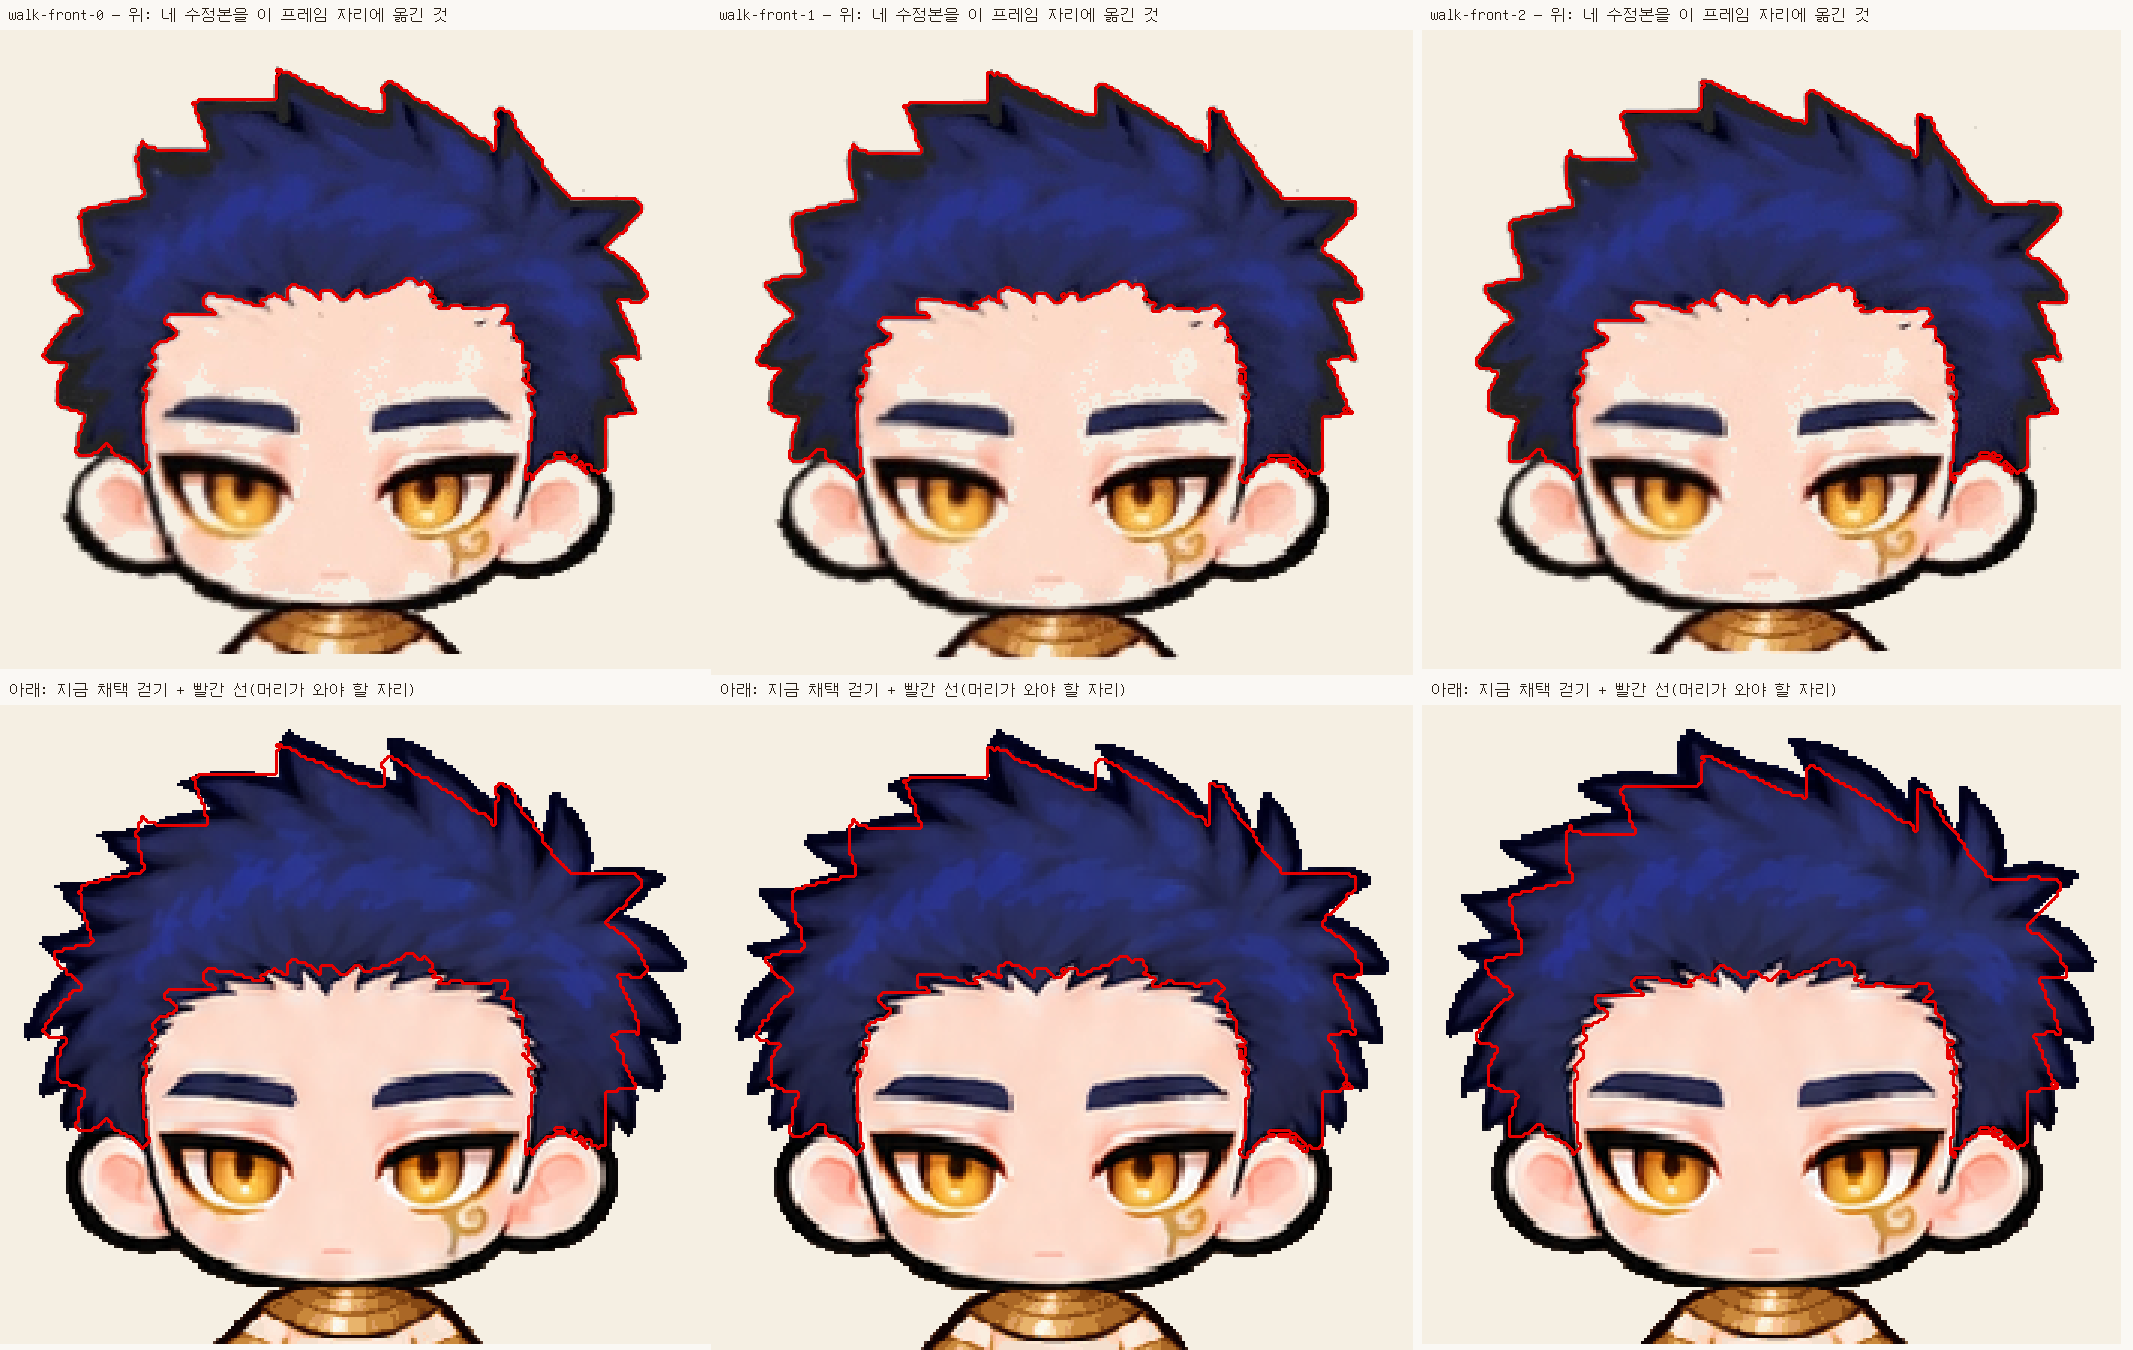
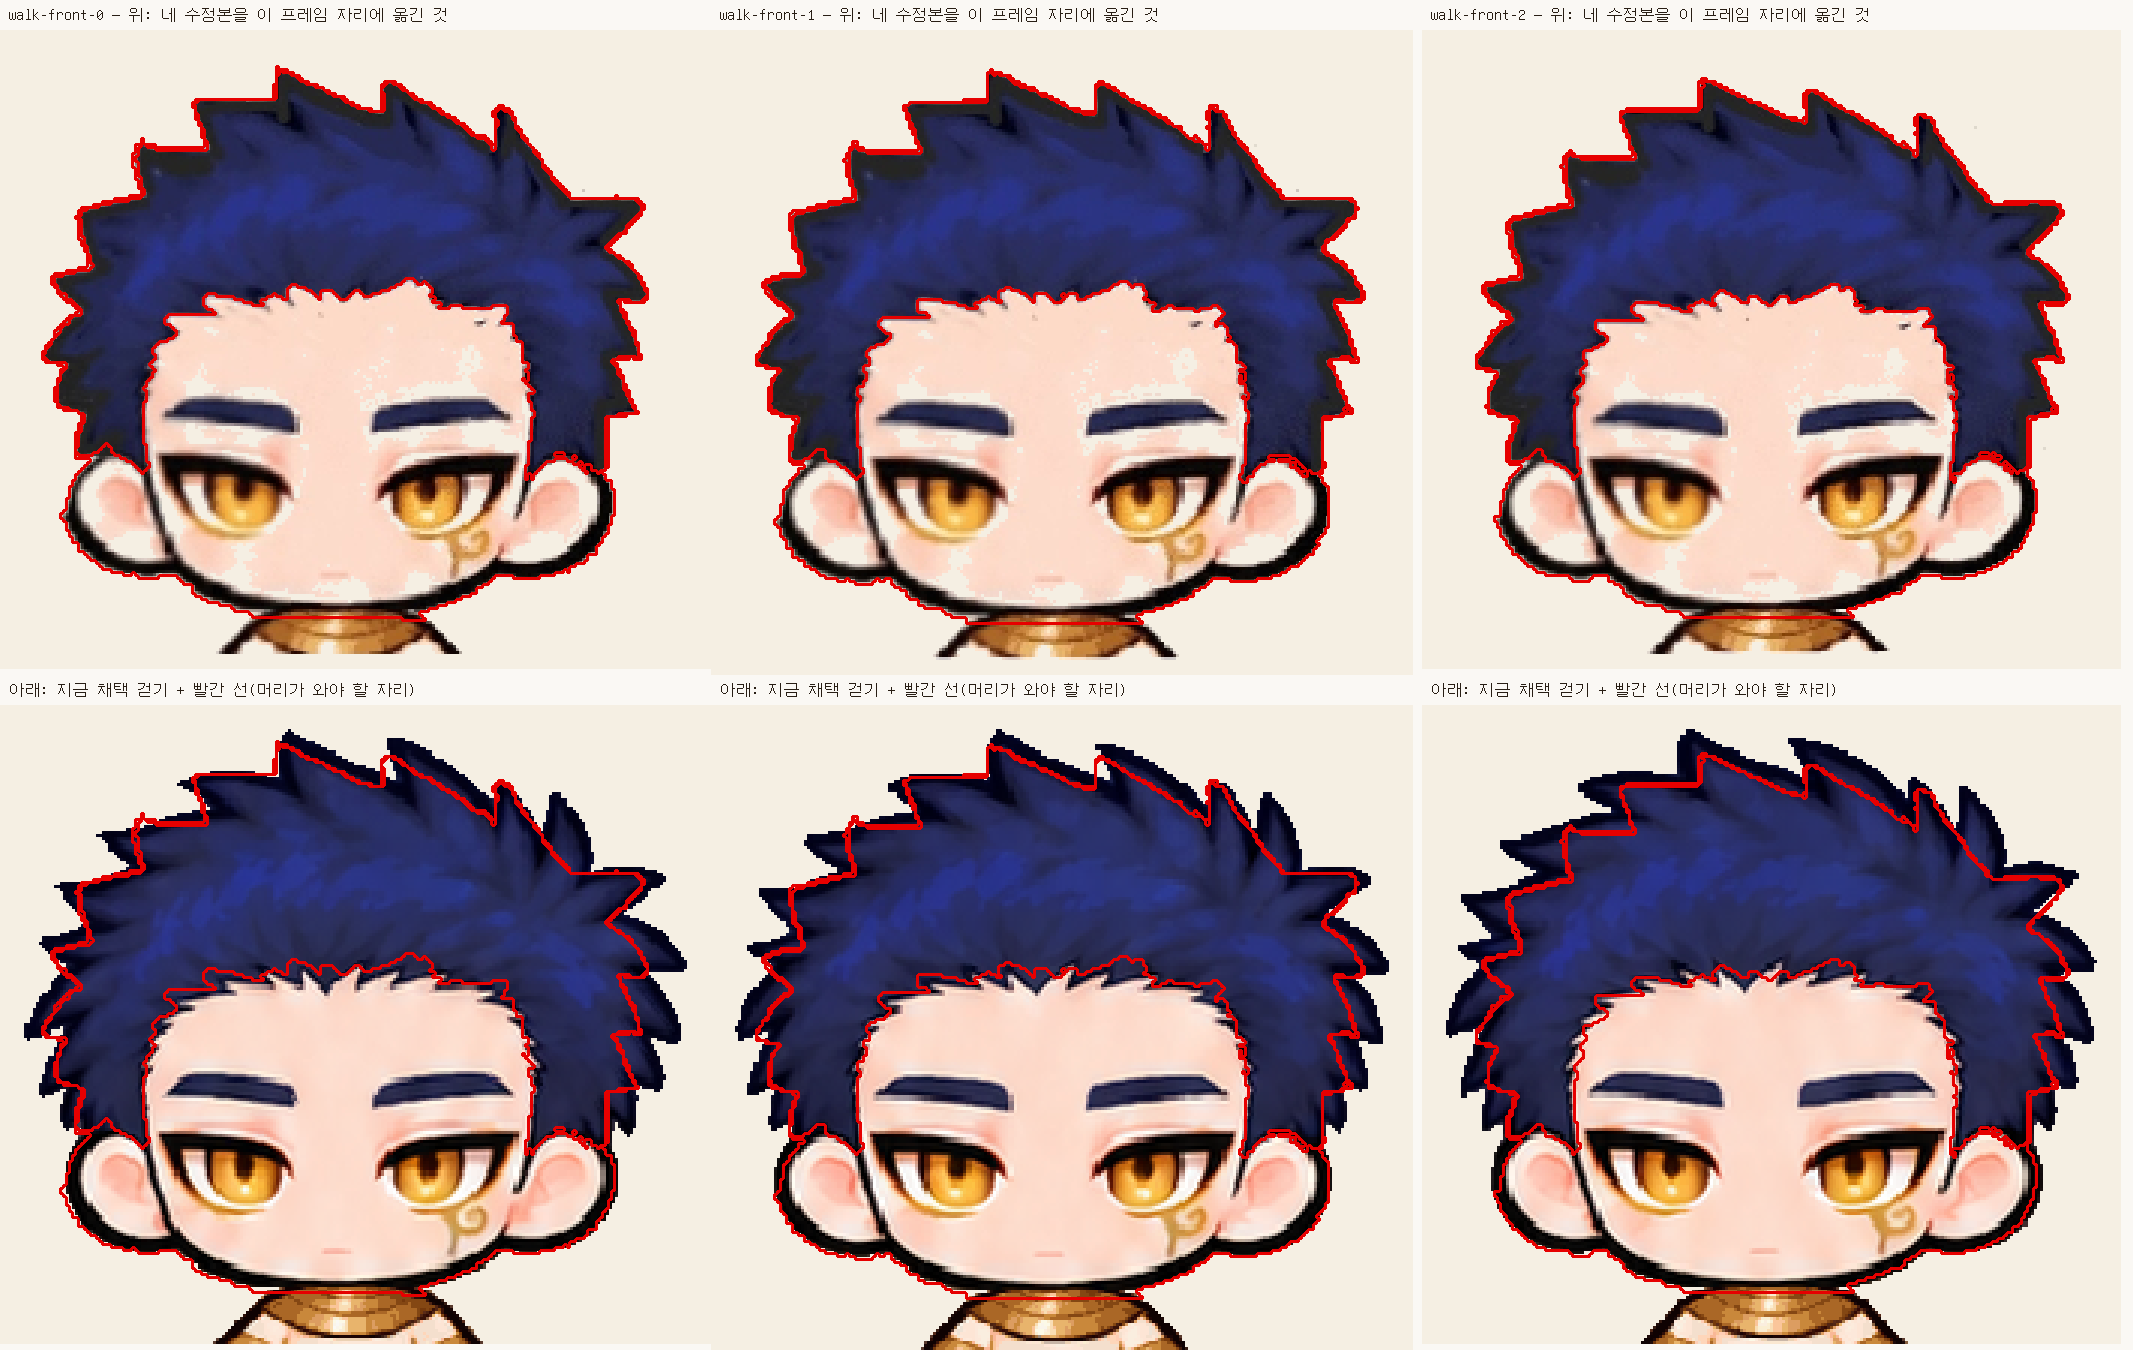
호루스 목표선에 귀 포함: 사용자 그림처럼 귀 윗부분이 보이고 머리카락과 틈
Claude-Session: https://claude.ai/code/session_01VEprA6JeTcQVX6tKD4oAcT

diff --git a/tools/art/check-hair.py b/tools/art/check-hair.py
@@ -160,6 +160,28 @@ def dist_to(mask_edge, pts):
     return out
 
 
+def head_mask(rgb, body, e):
+    # the whole head as drawn: hair, ears and face down to the gold collar, with the paper gaps the user left between
+    # hair and ears (they show as notches in the outline)
+    h, s, v = hsv(rgb)
+    gold = (h > 0.08) & (h < 0.15) & (s > 0.45) & (v > 0.35) & body
+    eye_y = max(e[0][1], e[1][1]); eye_d = abs(e[1][0] - e[0][0])
+    collar = rgb.shape[0]
+    for y in range(int(eye_y + 0.4 * eye_d), rgb.shape[0]):
+        if gold[y].sum() > 0.3 * eye_d: collar = y; break
+    rows = np.arange(rgb.shape[0])[:, None]
+    head = components(shrink(grow(body & (rows < collar), 1), 1))[0]
+    m = np.zeros_like(body); m[head[:, 0], head[:, 1]] = True
+    # pale highlights on the face read like paper; only paper that reaches the outside counts as a gap
+    outside = ~m
+    reach = np.zeros_like(m); reach[0] = outside[0]; reach[-1] = outside[-1]; reach[:, 0] = outside[:, 0]; reach[:, -1] = outside[:, -1]
+    while True:
+        nxt = reach | (grow(reach, 1) & outside)
+        if nxt.sum() == reach.sum(): break
+        reach = nxt
+    return ~reach
+
+
 GUIDE_CACHE = {}
 
 
@@ -174,7 +196,8 @@ def guide():
         k = max(2, int(round(0.03 * abs(e[1][0] - e[0][0]))))
         outer = edge(sil) & grow(~body, k)
         hairline = edge(blue) & grow(skin & ~sil, k + 1)
-        GUIDE_CACHE.update(rgb=rgb, body=body, sil=sil, blue=blue, eyes=e, outer=outer, hairline=hairline)
+        GUIDE_CACHE.update(rgb=rgb, body=body, sil=sil, blue=blue, eyes=e, outer=outer, hairline=hairline,
+                           head=head_mask(rgb, body, e))
     return GUIDE_CACHE
 
 
@@ -255,7 +278,9 @@ def targets():
         e, top, H = eyes(rgb, body)
         target, tf = place(g['sil'], g['eyes'], e, body.shape)
         tblue, _ = place(g['blue'], g['eyes'], e, body.shape)
+        thead, _ = place(g['head'], g['eyes'], e, body.shape)
         Image.fromarray((target * 255).astype(np.uint8)).save(os.path.join(out, f'{name}-hair-mask.png'))
+        Image.fromarray((thead * 255).astype(np.uint8)).save(os.path.join(out, f'{name}-head-mask.png'))
         Image.fromarray((tblue * 255).astype(np.uint8)).save(os.path.join(out, f'{name}-hair-blue-mask.png'))
         mid = ((e[0][0] + e[1][0]) / 2, (e[0][1] + e[1][1]) / 2)
         rows.append((name, mid, np.hypot(e[1][0] - e[0][0], e[1][1] - e[0][1]), tf, os.path.relpath(p, ROOT)))
@@ -270,7 +295,8 @@ def targets():
         xs = np.nonzero(body[y0:y1].any(0))[0]; x0, x1 = int(max(0, xs.min() - 8)), int(min(body.shape[1], xs.max() + 9))
         k = 3
         big = lambda a: np.kron(a[y0:y1, x0:x1], np.ones((k, k), bool)) if a.dtype == bool else np.asarray(Image.fromarray(a[y0:y1, x0:x1]).resize(((x1 - x0) * k, (y1 - y0) * k), Image.NEAREST))
-        line = edge(big(target)); line = grow(line, 1)
+        # the hair (its edge against face and ears too) and the whole head's outline, ears included
+        line = grow(edge(big(target)) | edge(big(thead)), 1)
         a = big(user).copy(); a[line] = (230, 0, 0)
         b = big(pic).copy(); b[line] = (230, 0, 0)
         tiles.append((Image.fromarray(a), Image.fromarray(b)))

diff --git a/tools/art/horus-idle-target.py b/tools/art/horus-idle-target.py
@@ -70,6 +70,8 @@ def main():
     rgb, b = ch.load(o.idle)
     e, top, H = ch.eyes(rgb, b)
     hair, tf = ch.place(g['sil'], g['eyes'], e, b.shape)
+    head, _ = ch.place(g['head'], g['eyes'], e, b.shape)
+    Image.fromarray((head * 255).astype(np.uint8)).save(os.path.join(OUT, 'idle-front-head-mask.png'))
     Image.fromarray((body * 255).astype(np.uint8)).save(os.path.join(OUT, 'idle-front-body-mask.png'))
     Image.fromarray((hair * 255).astype(np.uint8)).save(os.path.join(OUT, 'idle-front-hair-mask.png'))
     Image.fromarray(new).save(os.path.join(OUT, 'idle-front-shape-preview.png'))
@@ -84,7 +86,8 @@ def main():
             big[ch.grow(ch.edge(mb), 1)] = col
         return Image.fromarray(big[(I["top"] - 12) * k:(I["sole"] + 6) * k, 50 * k:310 * k])
     red = (230, 0, 0)
-    tiles = [tile(walk, []), tile(idle, [(body, red), (hair, red)]), tile(new, [(body, red), (hair, red)])]
+    # the body from the target, the head (ears included) and hair from the user's drawing
+    tiles = [tile(walk, []), tile(idle, [(body & ~head | head, red), (hair, red)]), tile(new, [(body & ~head | head, red), (hair, red)])]
     heads = ['채택 걷기 정면 1 (비율 기준)', '지금 정지 정면(156) + 빨간 목표선', '목표 모양 미리보기 (기계로 자르고 늘린 것, 그림 아님)']
     tw, th = tiles[0].size
     sheet = Image.new('RGB', (tw * 3, th + 30), (250, 248, 244))

diff --git a/docs/ASTRA-HANDOFF.md b/docs/ASTRA-HANDOFF.md
@@ -99,7 +99,7 @@
 | 긴 회랑5장 | 아트 전부 채택 완료. 적용 대상은5절의139~143번. 게임 적용과 이동·충돌·가림 확인은 오푸스 담당 |
 | 셋소호 정면 정지 선택·GIF | **[150 선택 정면3장](art/chibi-refresh/selected-front-idle-v150/README.md)**: 소망은 사용자가 올린 최종 시안 실제 원본, 세트·호루스는148 정면. 그림 수정 없이 복사하여 채택 걷기와 GIF 구성.149 소망 반려·재사용 금지. 다른 방향 정지의 전체 승인은 별개. 게임 미적용. |
 | 소망 뒤 정지·옷색 / 세트 정면 | [151 검토본](art/chibi-refresh/review-somang-back-v151/README.md). 소망 뒤는 사용자 명시 요청으로 재작화하되 최종 정면 전체 비율·색·도트 기준 유지. 소망 앞뒤 옷색을 걷기·좌우에 맞춤(반대 아님). 세트는 최종 정면 실제 원본을 복사해 GIF 비교. 호루스·걷기·좌우 그대로. 151 채택 대기, 게임 미적용. |
-| 호루스 사용자 수정도 | **155 반려·재사용 금지.** 다리 단축은 **정지 정면만** 해당한다. 채택 걷기 몸·다리·신발·치마 동작은 변경하지 않는다. 먼저 실제 정지 정면 한 장을 보여준다(걷기1을 정지로 제시 금지). 사용자 수정도의 머리 바깥 윤곽을 정확히 맞추고, 이마 높이를 지키면서 짧고 두툼한 헤어에 어울리게 경계를 완성한다. 걷기 적용 때는 원본 각 프레임의 머리 전체 위치·방향·변형과 얼굴/귀/목 접합을 먼저 확인한다. 고정 좌표 헤어 패치 덮어쓰기 금지. 기준 걷기 원본은 `review-trio-walk-v5/walk/`에 보존돼 있다. **머리 모양 기준은 [horus-hair-guide](art/chibi-refresh/horus-hair-guide/README.md)**: 사용자 최종 수정본 `user-edit-final.jpg`(이전 수정본은 대체됨), 걷기 정면 프레임마다 머리가 있어야 할 자리(`targets/`)와 머리 이동 표. 이마선은 잔털 같은 작은 갈래까지 그림으로 맞춘다. 정면 정지 몸은 `targets/idle-front-target.png`대로 치마 아래 다리를 걷기처럼 9px로 줄이고 신발을 걷기 높이로 맞춘다(치마 끝·발바닥 위치 유지). 보내기 전에 `python3 tools/art/check-hair.py <후보>`로 바깥 외곽선과 이마선이 통과하는지 확인한다. |
+| 호루스 사용자 수정도 | **155 반려·재사용 금지.** 다리 단축은 **정지 정면만** 해당한다. 채택 걷기 몸·다리·신발·치마 동작은 변경하지 않는다. 먼저 실제 정지 정면 한 장을 보여준다(걷기1을 정지로 제시 금지). 사용자 수정도의 머리 바깥 윤곽을 정확히 맞추고, 이마 높이를 지키면서 짧고 두툼한 헤어에 어울리게 경계를 완성한다. 걷기 적용 때는 원본 각 프레임의 머리 전체 위치·방향·변형과 얼굴/귀/목 접합을 먼저 확인한다. 고정 좌표 헤어 패치 덮어쓰기 금지. 기준 걷기 원본은 `review-trio-walk-v5/walk/`에 보존돼 있다. **머리 모양 기준은 [horus-hair-guide](art/chibi-refresh/horus-hair-guide/README.md)**: 사용자 최종 수정본 `user-edit-final.jpg`(이전 수정본은 대체됨), 걷기 정면 프레임마다 머리가 있어야 할 자리(`targets/`)와 머리 이동 표. 이마선은 잔털 같은 작은 갈래까지 그림으로 맞춘다. 귀는 양쪽 모두 사용자 그림처럼 윗부분까지 동그랗게 보이고 머리카락과 사이에 틈을 둔다(빨간 선에 포함). 정면 정지 몸은 `targets/idle-front-target.png`대로 치마 아래 다리를 걷기처럼 9px로 줄이고 신발을 걷기 높이로 맞춘다(치마 끝·발바닥 위치 유지). 보내기 전에 `python3 tools/art/check-hair.py <후보>`로 바깥 외곽선과 이마선이 통과하는지 확인한다. |
 
 호루스 최신 전달은 [156 정지 정면 한 장](art/chibi-refresh/review-horus-idle-v156/README.md), 채택 전. 151 정지 몸·다리3px 단축. 걷기는 수정하지 않았다. 사용자 머리 외곽선은 정면 걷기에도 적용해야 하며 아직 완료 아님.155 반려 상태 유지.
 | 개별 수정 검토 | 소망 피부121번, 호루스 이마 경계132번은 별도 채택 확인 전. 최종 정지 시안을 자동 교체하지 않는다 |

diff --git a/docs/art/chibi-refresh/horus-hair-guide/README.md b/docs/art/chibi-refresh/horus-hair-guide/README.md
@@ -7,6 +7,7 @@
 `user-edit-final.jpg`(835×806)가 **기준**이다. 사용자가 "이거야"라고 준 최종 정면 머리다. 이전 수정본들(153의 `sources/user-edit.jpg`, 왼쪽만 고친 수정본)은 이 파일로 대체됐고 쓰지 않는다.
 
 **맞출 것.**
+- **귀**: 귀 윗부분까지 동그랗게 다 보이고, 머리카락과 귀 사이에 틈이 있다. 머리 밑으로 귀를 밀어 넣지 않는다. 양쪽 다.
 - 머리 바깥 외곽선: 가닥 끝, 꺾이는 지점, 폭, 높이.
 - 이마선: 머리와 이마가 만나는 선.
 
@@ -20,9 +21,10 @@
 
 | 파일 | 내용 |
 |---|---|
-| `walk-front-targets.png` | 프레임마다 머리를 3배 확대. 위는 사용자 수정본을 그 프레임 자리에 옮긴 것, 아래는 지금 채택 걷기. 빨간 선이 머리가 있어야 할 자리 |
+| `walk-front-targets.png` | 프레임마다 머리를 3배 확대. 위는 사용자 수정본을 그 프레임 자리에 옮긴 것, 아래는 지금 채택 걷기. 빨간 선은 머리카락과 머리 전체(귀 포함) 윤곽 |
 | `walk-front-<0|1|2>-user-placed.png` | 사용자 수정본을 그 프레임의 눈 위치에 맞춰 옮긴 그림(360×400). 모양을 볼 때 쓴다. 색과 붓 자국은 쓰지 않는다 |
 | `walk-front-<0|1|2>-hair-mask.png` | 360×400 셀 좌표의 머리 실루엣. 바깥 검은 외곽선 끝(삐죽한 가닥 끝 포함)까지 들어간다. 귀 외곽선은 뺀다 |
+| `walk-front-<0|1|2>-head-mask.png` | 머리 전체(머리카락, 귀, 얼굴, 목걸이 위까지) 실루엣. 귀와 머리카락 사이 틈이 윤곽의 홈으로 나온다 |
 | `walk-front-<0|1|2>-hair-blue-mask.png` | 외곽선을 뺀 파란 머리 부분. 아래쪽 경계가 이마선이다 |
 | `head-motion.md`, `.json` | 프레임별 머리 위치. 아래 표와 같다 |
 
@@ -60,7 +62,7 @@
 | 파일 | 내용 |
 |---|---|
 | `idle-front-target.png` | 왼쪽은 걷기 정면 1(비율 기준). 가운데는 지금 정지 위에 빨간 목표선(사용자 머리 + 목표 몸)과 "신발 위는 여기" 선. 오른쪽은 목표 모양 미리보기 |
-| `idle-front-body-mask.png`, `idle-front-hair-mask.png` | 목표 몸 실루엣, 정지의 눈 위치에 맞춘 사용자 머리 실루엣(360×400) |
+| `idle-front-body-mask.png`, `idle-front-head-mask.png`, `idle-front-hair-mask.png` | 목표 몸, 정지의 눈 위치에 맞춘 사용자 머리 전체(귀 포함)와 머리카락 실루엣(360×400) |
 | `idle-front-shape-preview.png` | 다리 행을 줄이고 신발 행을 늘려 **기계로 만든 모양 확인용**. 그림으로 쓰지 않는다 |
 | `idle-front-target.json` | 위 수치 |
 
